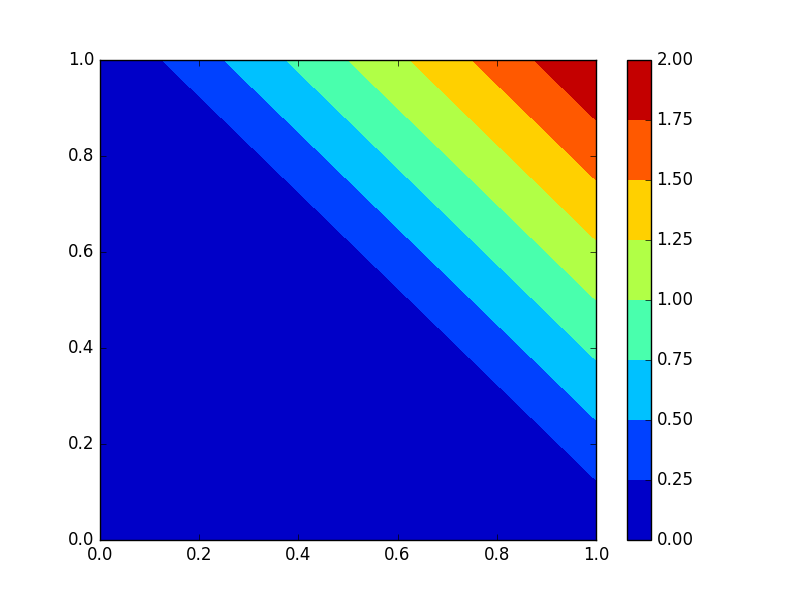
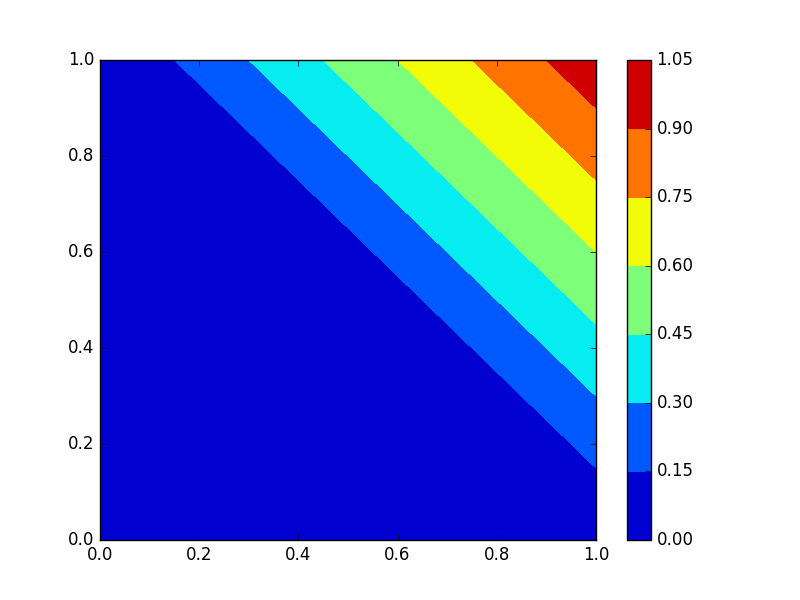
bilinear interpolation complete hombres

diff --git a/exam/main.py b/exam/main.py
@@ -17,7 +17,7 @@ j = 0
 
 for i in range(len(x)):
     for j in range(len(y)):
-        F[j][i] = 2*x[i]*y[j]
+        F[j][i] = x[i]*y[j]
 
 Flist = np.ravel(F)
 
@@ -33,23 +33,23 @@ for i in range(len(Flist)):
     n[i][2] = Flist[i]
 
 kappa = np.zeros((100,100))
-pxx = np.zeros(600)
-pyy = np.zeros(600)
 
 count = 0
-px = 0.01
-
+px = 0
+countx = 0
 while px < 1:
+    county = 0
     count = 1
-    py = 0.01
+    py = 0
     while py < 1:
         #print count
         count += 1
-        kappa[px*100,py*100] = bilin.bilinear(x, y, F, px, py)
+        kappa[countx,county] = bilin.bilinear(x, y, F, px, py)
+        county += 1
         py += 0.01
     px += 0.01
+    countx +=1
 
-print kappa
 # def column(matrix, i):
 #     return [row[i] for row in matrix]
 #
@@ -63,7 +63,7 @@ plt.colorbar()
 plt.savefig('noninterpolated.png',format='png')
 
 plt.figure(2)
-plt.contourf(np.linspace(0,1,100),np.linspace(0,1,100),kappa,100)
+plt.contourf(np.linspace(0,1,100),np.linspace(0,1,100),kappa,len(kappa))
 plt.savefig('interpolated.png',format='png')
 
 
